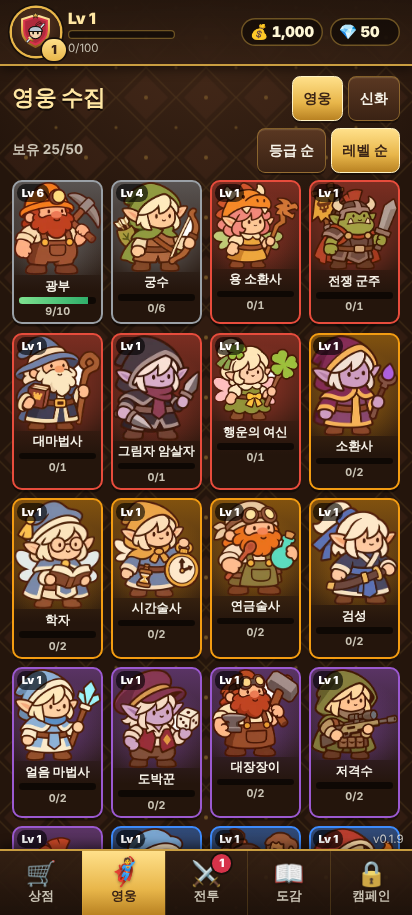
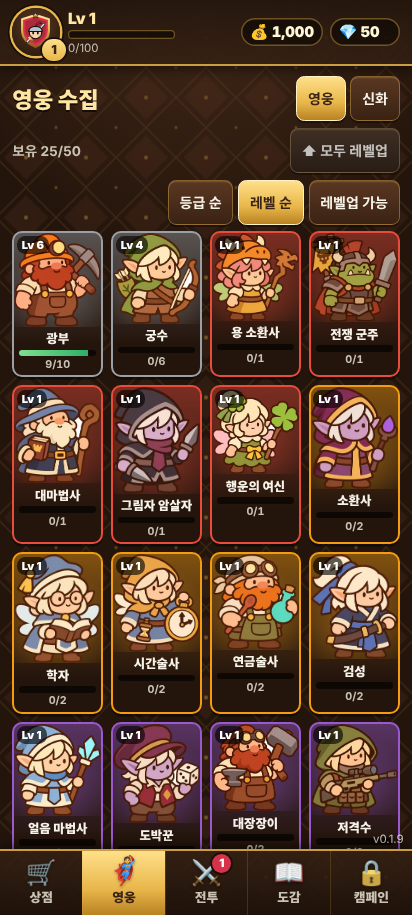
FB-31 영웅 모두 레벨업 + 정렬 [레벨업 가능] (피드백 #31)
Claude-Session: https://claude.ai/code/session_01TtVcSoY665DmsK6h3dcafN

diff --git a/tests/unit/feedback-31.test.ts b/tests/unit/feedback-31.test.ts
@@ -1,0 +1,109 @@
+/**
+ * 피드백 #31 '영웅 레벨업도 한번에 할수있고 정렬 기능도 넣어줘' (본문·판 기록 없음 → 리플레이 재현 대상 없음).
+ * - 로비 [영웅] 탭 [⬆ 모두 레벨업]: 지금 탭의 보유 영웅을 보이는 순서대로 한 레벨씩 돌아가며, 더 못 올릴 때까지.
+ * - 정렬: 기존 [등급 순]/[레벨 순]에 [레벨업 가능] (카드가 모인 영웅 먼저) 추가.
+ */
+import { describe, expect, it } from 'vitest';
+import { loadGameData } from '../../src/data/load';
+import { loadProgression } from '../../src/meta/progressionData';
+import { checkLevelUp, levelUpAllHeroes, levelUpHero, newProgress } from '../../src/meta/progress';
+import { ProgressStore } from '../../src/meta/progressStore';
+import { MemoryStorage } from '../../src/save/storage';
+import { heroGrid } from '../../src/ui/lobby/lobbyModel';
+
+const data = loadGameData();
+const pd = loadProgression(data);
+const fresh = () => newProgress(pd, data, 7);
+const tower = (id: string) => data.towers.towers.find((t) => t.id === id)!;
+
+describe('피드백 #31: 영웅 모두 레벨업', () => {
+  it('하나씩 누른 것과 같은 결과 (돌아가며 한 레벨씩), 골드·카드 합계를 돌려준다', () => {
+    const a = fresh();
+    a.gold = 1000;
+    a.heroes.miner = { level: 1, cards: 20 }; // Lv1→2 카드 2·100골드, 2→3 3·150, 3→4 4·200 …
+    a.heroes.archer = { level: 1, cards: 2 };
+    const b = structuredClone(a);
+    const order = [tower('miner'), tower('archer')];
+    const r = levelUpAllHeroes(a, pd, order);
+    // 손으로: miner, archer, miner, (archer 카드 없음), miner …
+    let changed = true;
+    while (changed) {
+      changed = false;
+      for (const t of order) if (typeof levelUpHero(b, pd, t) === 'number') changed = true;
+    }
+    expect(a).toEqual(b);
+    expect(a.heroes.archer!.level).toBe(2);
+    expect(r.ups).toEqual([
+      { id: 'miner', from: 1, to: a.heroes.miner!.level },
+      { id: 'archer', from: 1, to: 2 },
+    ]);
+    expect(r.gold).toBe(1000 - a.gold);
+    expect(r.cards).toBe(20 - a.heroes.miner!.cards + 2);
+    expect(checkLevelUp(a, pd, tower('miner'))).not.toBe('ok');
+  });
+
+  it('골드가 모자라면 앞 영웅이 다 가져가지 않고 돌아가며 한 레벨씩', () => {
+    const s = fresh();
+    s.gold = 200;
+    s.heroes.miner = { level: 1, cards: 50 };
+    s.heroes.archer = { level: 1, cards: 50 };
+    const r = levelUpAllHeroes(s, pd, [tower('miner'), tower('archer')]);
+    expect(s.heroes.miner!.level).toBe(2);
+    expect(s.heroes.archer!.level).toBe(2);
+    expect(s.gold).toBe(0);
+    expect(r.ups).toHaveLength(2);
+  });
+
+  it('올릴 영웅이 없으면 아무것도 바꾸지 않는다 (보유하지 않음·최고 레벨 포함)', () => {
+    const s = fresh();
+    s.gold = 99999;
+    s.heroes.miner = { level: pd.heroes.maxLevel, cards: 999 };
+    const before = structuredClone(s);
+    const r = levelUpAllHeroes(s, pd, [tower('miner'), tower('drummer')]);
+    expect(r).toEqual({ ups: [], gold: 0, cards: 0 });
+    expect(s).toEqual(before);
+  });
+
+  it('저장소: 지금 탭에 보이는 순서(id 목록)대로 올리고 한 번 저장·알림, 다른 탭은 그대로', () => {
+    const store = new ProgressStore(new MemoryStorage(), pd, data, { seed: 7, now: () => new Date(2026, 10, 17) });
+    store.state.gold = 100000;
+    store.state.heroes.miner = { level: 1, cards: 4 };
+    const hidden = data.towers.towers.find((t) => t.grade === 'hidden')!;
+    store.state.heroes[hidden.id] = { level: 1, cards: 10 };
+    let calls = 0;
+    store.subscribe(() => calls++);
+    const ids = () => heroGrid(store.state, pd, data, 'heroes', 'grade').owned.map((c) => c.id);
+    const r = store.levelUpAll(ids());
+    expect(calls).toBe(1);
+    expect(r.ups.map((u) => u.id)).toContain('miner');
+    expect(store.state.heroes.miner!.level).toBe(2);
+    expect(store.state.heroes[hidden.id]!.level).toBe(1);
+    expect(store.levelUpAll(ids()).ups).toEqual([]);
+    expect(calls).toBe(1);
+  });
+
+  it('탭 버튼 수 = 지금 바로 올릴 수 있는 영웅 수 (카드 + 골드)', () => {
+    const s = fresh();
+    s.gold = 100;
+    s.heroes.miner = { level: 1, cards: 2 };
+    s.heroes.archer = { level: 1, cards: 2 };
+    const g = heroGrid(s, pd, data, 'heroes', 'grade');
+    expect(g.ready).toBe(2);
+    expect(g.canLevel).toBe(2);
+    s.gold = 0;
+    expect(heroGrid(s, pd, data, 'heroes', 'grade').canLevel).toBe(0);
+  });
+});
+
+describe('피드백 #31: 정렬 [레벨업 가능]', () => {
+  it('카드가 모인 영웅이 먼저, 그 안·밖은 등급 순', () => {
+    const s = fresh();
+    s.heroes.miner = { level: 1, cards: 2 };
+    s.heroes.archer = { level: 1, cards: 2 };
+    const owned = heroGrid(s, pd, data, 'heroes', 'ready').owned;
+    expect(owned.slice(0, 2).map((c) => c.id).sort()).toEqual(['archer', 'miner']);
+    expect(owned.slice(2).every((c) => !c.ready)).toBe(true);
+    const byGrade = heroGrid(s, pd, data, 'heroes', 'grade').owned.filter((c) => !c.ready).map((c) => c.id);
+    expect(owned.slice(2).map((c) => c.id)).toEqual(byGrade);
+  });
+});

diff --git a/e2e/fb31.spec.ts b/e2e/fb31.spec.ts
@@ -1,0 +1,62 @@
+/**
+ * 피드백 #31 '영웅 레벨업도 한번에 할수있고 정렬 기능도 넣어줘' — 로비 [영웅] 탭:
+ * [⬆ 모두 레벨업 N]으로 카드·골드가 되는 영웅을 한 번에 올리고, 정렬에 [레벨업 가능](카드가 모인 영웅 먼저)을 더했다.
+ */
+import { expect, test, type Page } from '@playwright/test';
+import { mkdirSync } from 'node:fs';
+
+async function openLobby(page: Page): Promise<void> {
+  await page.goto('/');
+  await expect(page.locator('[data-screen="title"][data-lobby="1"]')).toBeVisible();
+}
+
+test('피드백 #31: [⬆ 모두 레벨업] · 정렬 [레벨업 가능]', async ({ page }) => {
+  const errors: string[] = [];
+  page.on('pageerror', (e) => errors.push(String(e)));
+  await openLobby(page);
+  // 광부: 카드 5장(Lv1→2: 2장·100, Lv2→3: 3장·150), 궁수: 카드 2장(Lv1→2), 골드 1,000
+  await page.evaluate(() => {
+    const p = JSON.parse(localStorage.getItem('rtd.progress')!);
+    p.heroes.miner.cards = 5;
+    p.heroes.archer.cards = 2;
+    p.gold = 1000;
+    localStorage.setItem('rtd.progress', JSON.stringify(p));
+  });
+  await openLobby(page);
+  await page.locator('.lobby-nav [data-tab="heroes"]').click();
+  const owned = page.getByTestId('hero-grid-owned').locator('.hero-card');
+  // 정렬 [레벨업 가능]: 카드가 모인 광부·궁수가 맨 앞
+  await page.locator('[data-sort="ready"]').click();
+  await expect(page.locator('[data-sort="ready"]')).toHaveAttribute('aria-pressed', 'true');
+  const firstTwo = [await owned.nth(0).getAttribute('data-hero'), await owned.nth(1).getAttribute('data-hero')].sort();
+  expect(firstTwo).toEqual(['archer', 'miner']);
+  const all = page.getByTestId('hero-levelup-all');
+  await expect(all).toHaveText('⬆ 모두 레벨업 2');
+  await expect(all).toBeEnabled();
+  // 정렬 3칸과 모두 레벨업이 패널 밖으로 넘치지 않음 (320 너비 포함)
+  for (const w of [412, 320]) {
+    await page.setViewportSize({ width: w, height: w === 412 ? 915 : 640 });
+    const panel = (await page.locator('.lobby-sortbar').first().boundingBox())!;
+    for (const sel of ['[data-sort="grade"]', '[data-sort="level"]', '[data-sort="ready"]', '[data-testid="hero-levelup-all"]']) {
+      const b = (await page.locator(sel).boundingBox())!;
+      expect(b.x).toBeGreaterThanOrEqual(panel.x - 1);
+      expect(b.x + b.width).toBeLessThanOrEqual(panel.x + panel.width + 1);
+      expect(b.height).toBeLessThan(60);
+    }
+  }
+  await page.setViewportSize({ width: 412, height: 915 });
+  mkdirSync('docs/screens', { recursive: true });
+  await page.waitForTimeout(300);
+  await page.screenshot({ path: 'docs/screens/FB31-heroes.png', animations: 'disabled' });
+  await all.click();
+  // 광부 Lv3 (100 + 150), 궁수 Lv2 (100) → 골드 650
+  await expect(page.locator('.hero-card[data-hero="miner"]')).toHaveAttribute('data-level', '3');
+  await expect(page.locator('.hero-card[data-hero="archer"]')).toHaveAttribute('data-level', '2');
+  await expect(all).toBeDisabled();
+  await expect(all).toHaveText('⬆ 모두 레벨업');
+  const after = await page.evaluate(() => JSON.parse(localStorage.getItem('rtd.progress')!) as { gold: number; heroes: Record<string, { level: number; cards: number }> });
+  expect(after.gold).toBe(650);
+  expect(after.heroes.miner).toEqual({ level: 3, cards: 0 });
+  expect(after.heroes.archer).toEqual({ level: 2, cards: 0 });
+  expect(errors).toEqual([]);
+});

diff --git a/src/ui/lobby/Lobby.ts b/src/ui/lobby/Lobby.ts
@@ -6,7 +6,7 @@
  *  - 가운데: 탭 화면 (아래 메뉴로 바꿈)
  *    · [전투] (기본): 로고, 왼쪽 [퀘스트]·[영웅 모집], 오른쪽 [📜 기록]·[⚙], 세로 '웨이브 길'(최고 웨이브 + 10웨이브마다 보상),
  *      큰 [빠른 시작](무한 모드) — 이어 할 판이 있으면 [이어 하기 · n단계] + [새 게임](확인 창)
- *    · [영웅]: 영웅 카드 격자 (탭 [영웅]/[신화], 정렬 [등급 순]/[레벨 순]), 누르면 상세 창(능력치·특색·레벨업)
+ *    · [영웅]: 영웅 카드 격자 (탭 [영웅]/[신화], [⬆ 모두 레벨업 N], 정렬 [등급 순]/[레벨 순]/[레벨업 가능]), 누르면 상세 창(능력치·특색·레벨업)
  *    · [상점]: 게임 안 화폐로 카드 묶음·상자·조각·골드 (실제 돈 상품 없음)
  *    · [도감]: 신화(히든) 영웅 조각 모으기 + 해방, 조합 재료
  *    · [캠페인]: 계정 레벨로 열리는 모드 자리 (열리면 테마 1)
@@ -474,9 +474,22 @@ export function createLobbyScreen(opts: LobbyOptions): LobbyView {
           },
         },
       });
+    // 피드백 #31: 지금 탭의 보유 영웅을 보이는 순서대로 모두 레벨업 (돌아가며 한 레벨씩)
+    const levelAll = h('button', {
+      class: `btn btn-chip ${g.canLevel > 0 ? 'btn-primary' : ''} hero-levelup-all`,
+      text: g.canLevel > 0 ? `⬆ 모두 레벨업 ${g.canLevel}` : '⬆ 모두 레벨업',
+      attrs: { type: 'button', 'data-testid': 'hero-levelup-all', ...(g.canLevel > 0 ? {} : { disabled: '' }) },
+      on: {
+        click: () => {
+          const r = progress.levelUpAll(g.owned.map((c) => c.id));
+          if (r.ups.length > 0) opts.toast(`⬆ 영웅 ${r.ups.length}명 레벨업 · 🃏 ${r.cards} · 💰 ${fmt(r.gold)} 사용`, 2200);
+        },
+      },
+    });
     heroesPanel.replaceChildren(
       h('div', { class: 'lobby-panel-head' }, h('h2', { class: 'lobby-panel-title', text: '영웅 수집' }), h('div', { class: 'lobby-segs' }, tabBtn('heroes', '영웅'), tabBtn('mythic', '신화'))),
-      h('div', { class: 'lobby-sortbar' }, h('span', { class: 'lobby-count', text: `보유 ${g.owned.length}/${g.owned.length + g.unowned.length}` }), h('div', { class: 'lobby-segs' }, sortBtn('grade', '등급 순'), sortBtn('level', '레벨 순'))),
+      h('div', { class: 'lobby-sortbar' }, h('span', { class: 'lobby-count', text: `보유 ${g.owned.length}/${g.owned.length + g.unowned.length}` }), levelAll),
+      h('div', { class: 'lobby-sortbar hero-sorts' }, h('div', { class: 'lobby-segs' }, sortBtn('grade', '등급 순'), sortBtn('level', '레벨 순'), sortBtn('ready', '레벨업 가능'))),
       h(
         'div',
         { class: 'lobby-scroll' },

diff --git a/src/ui/lobby/lobbyModel.ts b/src/ui/lobby/lobbyModel.ts
@@ -35,7 +35,8 @@ const GRADE_RANK: Readonly<Record<Grade, number>> = Object.freeze({ hidden: 7, g
 
 /** 영웅 탭: [영웅] 노말~레전드 / [신화] 히든(신화)·신 */
 export type HeroTab = 'heroes' | 'mythic';
-export type HeroSort = 'grade' | 'level';
+/** 'ready' = 피드백 #31 레벨업 가능(카드가 모인 영웅) 먼저 */
+export type HeroSort = 'grade' | 'level' | 'ready';
 
 export function tabOf(grade: Grade): HeroTab {
   return grade === 'hidden' || grade === 'god' ? 'mythic' : 'heroes';
@@ -101,6 +102,8 @@ export interface HeroGridModel {
   unowned: HeroCardModel[];
   /** 레벨업 카드가 모인 영웅 수 (탭 빨간 점) */
   ready: number;
+  /** 지금 바로(카드 + 골드) 레벨업할 수 있는 영웅 수 — [⬆ 모두 레벨업 N] */
+  canLevel: number;
 }
 
 /** 영웅 탭 목록: 보유(정렬) + 보유하지 않음(등급 순). 같은 값이면 데이터 순서 */
@@ -110,9 +113,12 @@ export function heroGrid(state: ProgressState, pd: ProgressionData, data: Pick<G
   const cards = data.towers.towers.filter((t) => tabOf(t.grade) === tab).map((t) => heroCard(state, pd, t, deck));
   const byGrade = (a: HeroCardModel, b: HeroCardModel): number => GRADE_RANK[b.grade] - GRADE_RANK[a.grade] || (order.get(a.id) as number) - (order.get(b.id) as number);
   const byLevel = (a: HeroCardModel, b: HeroCardModel): number => b.level - a.level || byGrade(a, b);
-  const owned = cards.filter((c) => c.owned).sort(sort === 'level' ? byLevel : byGrade);
+  const byReady = (a: HeroCardModel, b: HeroCardModel): number => Number(b.ready) - Number(a.ready) || byGrade(a, b);
+  const owned = cards.filter((c) => c.owned).sort(sort === 'level' ? byLevel : sort === 'ready' ? byReady : byGrade);
   const unowned = cards.filter((c) => !c.owned).sort(byGrade);
-  return { owned, unowned, ready: cards.filter((c) => c.ready).length };
+  const towers = new Map(data.towers.towers.map((t) => [t.id, t]));
+  const canLevel = owned.filter((c) => checkLevelUp(state, pd, towers.get(c.id) as TowerData) === 'ok').length;
+  return { owned, unowned, ready: cards.filter((c) => c.ready).length, canLevel };
 }
 
 /** 영웅 + 신화 탭 모두에서 카드가 모인 영웅 수 */

diff --git a/src/meta/progress.ts b/src/meta/progress.ts
@@ -283,6 +283,43 @@ export function levelUpHero(state: ProgressState, pd: ProgressionData, tower: Pi
   return e.level;
 }
 
+export interface LevelUpAllResult {
+  /** 오른 영웅 (주어진 순서), 레벨 from → to */
+  ups: { id: string; from: number; to: number }[];
+  gold: number;
+  cards: number;
+}
+
+/**
+ * 피드백 #31 모두 레벨업: 주어진 순서로 돌아가며 한 레벨씩 올리고, 더 못 올릴 때까지 반복한다
+ * (골드가 모자라도 앞 영웅이 다 가져가지 않게). 결과는 하나씩 누른 것과 같다.
+ */
+export function levelUpAllHeroes(state: ProgressState, pd: ProgressionData, towers: readonly Pick<TowerData, 'id' | 'grade'>[]): LevelUpAllResult {
+  const gold0 = state.gold;
+  const from = new Map<string, { level: number; cards: number }>();
+  let changed = true;
+  while (changed) {
+    changed = false;
+    for (const t of towers) {
+      const e = heroEntry(state, t.id);
+      const before = { level: e.level, cards: e.cards };
+      if (typeof levelUpHero(state, pd, t) !== 'number') continue;
+      if (!from.has(t.id)) from.set(t.id, before);
+      changed = true;
+    }
+  }
+  const ups: LevelUpAllResult['ups'] = [];
+  let cards = 0;
+  for (const t of towers) {
+    const b = from.get(t.id);
+    if (!b) continue;
+    const e = heroEntry(state, t.id);
+    ups.push({ id: t.id, from: b.level, to: e.level });
+    cards += b.cards - e.cards;
+  }
+  return { ups, gold: gold0 - state.gold, cards };
+}
+
 export function heroLevelSum(state: ProgressState): number {
   let sum = 0;
   for (const id of Object.keys(state.heroes).sort()) sum += (state.heroes[id] as HeroEntry).level;

diff --git a/src/meta/progressStore.ts b/src/meta/progressStore.ts
@@ -23,6 +23,7 @@ import {
   claimRecruit,
   heroEntry,
   heroMatchLevels,
+  levelUpAllHeroes,
   levelUpHero,
   lockedHiddenIds,
   parseProgress,
@@ -31,6 +32,7 @@ import {
   settleMatch,
   unlockHidden,
   type Grant,
+  type LevelUpAllResult,
   type MatchResult,
   type MatchSettlement,
   type ProgressState,
@@ -176,6 +178,14 @@ export class ProgressStore {
     if (!t) return 'notOwned';
     const r = levelUpHero(this.state, this.pd, t);
     if (typeof r === 'number') this.changed();
+    return r;
+  }
+
+  /** 피드백 #31: 주어진 순서(로비 [영웅] 지금 탭에 보이는 순서)로 모두 레벨업 (한 번 저장·알림) */
+  levelUpAll(ids: readonly string[]): LevelUpAllResult {
+    const order = ids.map((id) => this.tower(id)).filter((t): t is TowerData => t !== undefined);
+    const r = levelUpAllHeroes(this.state, this.pd, order);
+    if (r.ups.length > 0) this.changed();
     return r;
   }
 

diff --git a/src/ui/lobby/lobby.css b/src/ui/lobby/lobby.css
@@ -213,6 +213,16 @@
   margin-bottom: 1.6cqw;
 }
 
+.hero-sorts {
+  justify-content: flex-end;
+}
+
+.hero-levelup-all {
+  flex: none;
+  font-size: 3.4cqw;
+  padding: 1cqw 2.6cqw;
+}
+
 .lobby-count {
   font-size: 3.3cqw;
   font-weight: 700;

diff --git a/docs/PROGRESS.md b/docs/PROGRESS.md
@@ -1311,3 +1311,11 @@
   전체 E2E(포트 5187, 1.1시간): **190 통과 · 1 실패 · 2 건너뜀** → 실패 1 = `devtools` '⏭ 보스 단계에서 건너뛰기 → 돈 그대로' — 에이전트가 돌리지 않은 스펙이라 놓친 **이자 때문의 진짜 실패**(1,900원 → 2,000원, ⏭도 단계를 지나 이자 +100원). 기대값을 '그대로 + 이자(rules로 계산)'로 고쳐 그 스펙 5/5 통과.
   첫 보스 봇(시드 7001~7020, 상한 넣은 뒤): A 18/20 · B 20/20 (B 처치 평균 30.6초) — 이자 넣기 전과 같다.
 - **남은 문제**: 은행가 타워(30초마다 1~3% 이자)와 단계 이자가 겹치는 느낌은 실제로 해 보고 판단. 멈춘 피드백 #6·#8·#9는 기능 하나씩 이슈로 나눠 다시 올리거나 에이전트 한도를 올려야 한다.
+
+### 피드백 #31 — 영웅 모두 레벨업 · 정렬 [레벨업 가능] (fix/feedback-31)
+- 이슈 제목(본문·판 기록 JSON 없음 → `src/sim/replay.ts` 리플레이 재현 테스트 대상 없음): '버그: 영웅 레벨업도 한번에 할수있고 정렬 기능도 넣어줘'. 실제 오류는 아니고 #11 [모두 받기]와 같은 '한 번에' 요청으로 봤다.
+- **모두 레벨업**: `progress.ts levelUpAllHeroes(state, pd, towers)` — 주어진 순서로 돌아가며 한 레벨씩, 더 못 올릴 때까지(골드가 모자라도 앞 영웅이 다 가져가지 않음). 결과는 [레벨업]을 하나씩 누른 것과 같다. `ProgressStore.levelUpAll(ids)`는 한 번 저장·알림. 로비 [영웅] 탭 보유 수 줄 오른쪽 [⬆ 모두 레벨업 N] (N = 지금 탭에서 카드 + 골드가 되는 영웅 수, `heroGrid().canLevel`), 대상은 **지금 탭([영웅] 또는 [신화])의 보이는 순서**. 끝나면 알림 '⬆ 영웅 n명 레벨업 · 🃏 카드 · 💰 골드 사용'. 확인 창은 없다(퀘스트 [모두 받기]와 같은 한 번 누르기).
+- **정렬**: [등급 순]/[레벨 순]은 이미 있었다(G-3). 찾기 쉽게 정렬 줄을 따로 두고 [레벨업 가능](카드가 모인 영웅 먼저, 그다음 등급 순)을 더했다. 정렬 상태는 저장하지 않는다(예전과 같음).
+- 저장 형식·데이터·sim·타워 ID 변경 없음.
+- 테스트: `tests/unit/feedback-31.test.ts` 6개(고치기 전 6개 실패 확인), `e2e/fb31.spec.ts`(412·320 넘침 없음, 클릭 뒤 레벨·골드, 스크린샷 `docs/screens/FB31-heroes.png`). `G3-heroes.png`는 새 배치로 다시 찍힘. Vitest 79파일 1,428 통과 · 3 건너뜀, `npm run check`·`npm run build` 통과, E2E fb31 1/1 · g3 9/9. 전체 E2E(약 1시간)는 로비 영웅 탭만 바뀌어 돌리지 않음.
+- 남은 문제: 골드를 아끼고 싶은 사용자에게 확인 창이 필요한지, 정렬에 다른 기준(예: 전투 덱 먼저)이 필요한지는 사용자 확인.
